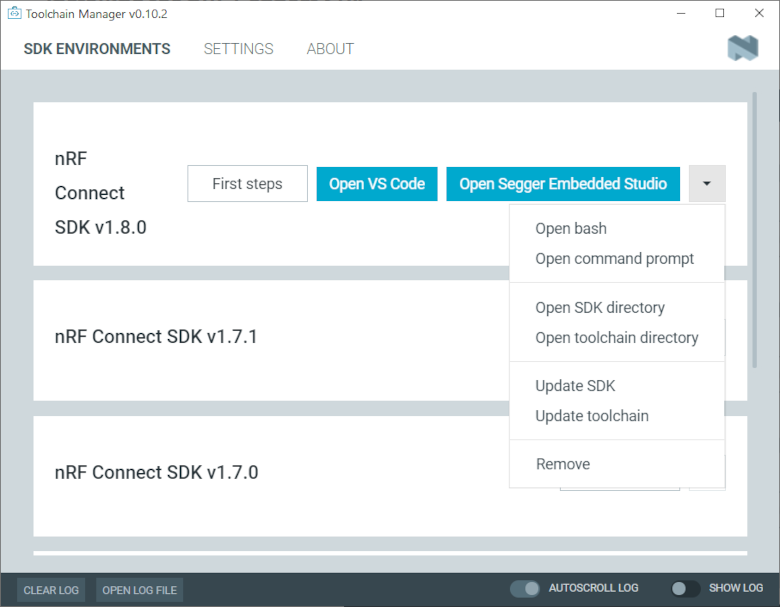
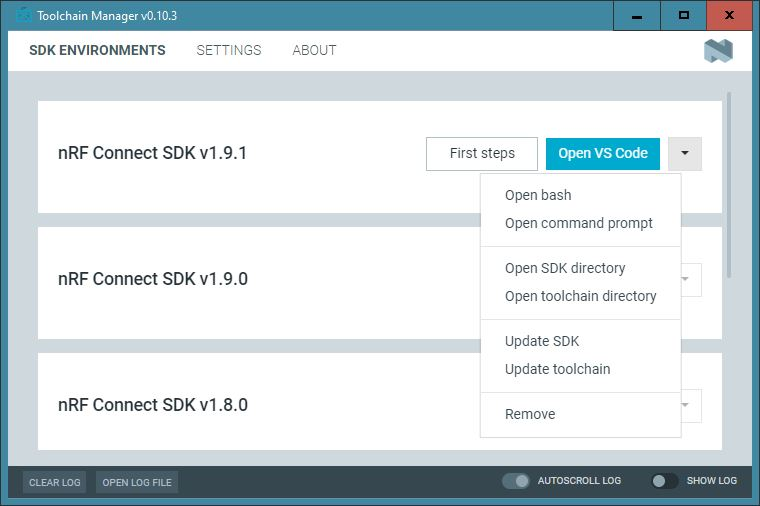
doc: removed ses references
Removed ses references from gs_assistant and gs_updating.
Updated a screenshot in gs_assistant.
Removed a SES reference in ug_nrf5340.rst.
Implemented changes from Jira NCSDK 15030.

diff --git a/doc/nrf/gs_updating.rst b/doc/nrf/gs_updating.rst
@@ -86,6 +86,7 @@ To switch to the latest state of development, enter the following commands::
    Run ``west update`` every time you change or modify the current working branch (for example, when you pull, rebase, or check out a different branch).
    This will bring the project repositories to the matching revision defined by the manifest file.
 
+
 .. _gs_updating_vsc:
 
 Updating |VSC|
@@ -148,53 +149,6 @@ To update west to the latest available version in the PyPi repository, run the f
 
          pip3 install -U west
 ..
-
-.. _gs_updating_ses:
-
-Updating SEGGER Embedded Studio Nordic Edition
-**********************************************
-
-Each new release of the |NCS| might require manually updating to a newer version of the |SES| (SES) Nordic Edition.
-Whenever you update to a newer release of the |NCS|, check the :ref:`gs_recommended_versions` page for the given release to see if you are using the minimum required version of the SES Nordic Edition.
-
-.. note::
-  Because of the custom |NCS| options available only in the SES Nordic Edition, notifications about newer versions of SES are disabled in the SES Nordic Edition.
-
-.. tabs::
-
-   .. group-tab:: Windows
-
-      To update to the latest version of the SES Nordic Edition, use one of the following options:
-
-      * Install the latest version of Toolchain Manager as described in :ref:`gs_assistant`.
-      * Install the SES Nordic Edition manually as described in :ref:`installing_ses`.
-
-      Then, :ref:`set up the build environment in SES <setting_up_SES>` again.
-
-   .. group-tab:: Linux
-
-      To update to the latest version of the SES Nordic Edition, install it manually as described in :ref:`installing_ses`.
-      Then, :ref:`set up the build environment in SES <setting_up_SES>` again.
-
-   .. group-tab:: macOS
-
-      To update to the latest version of the SES Nordic Edition, install it manually as described in :ref:`installing_ses`.
-      Then, :ref:`set up the build environment in SES <setting_up_SES>` again.
-..
-
-.. _gs_updating_ses_packages:
-
-Updating SES packages
-=====================
-
-Updating SES Nordic Edition will not update already installed packages.
-You might need to manually update the CPU support package when you cannot select a CPU as :guilabel:`Target Processor` when configuring a new project.
-
-To update the nRF CPU Support Package after a SES update:
-
-1. In SES, select :guilabel:`Tools` > :guilabel:`Package Manager...`.
-#. Search for "nRF CPU Support Package".
-#. Update the package to the latest version.
 
 .. _repo_move:
 

diff --git a/doc/nrf/gs_assistant.rst b/doc/nrf/gs_assistant.rst
@@ -21,7 +21,7 @@ Toolchain Manager
 *****************
 
 The Toolchain manager app is available for Windows and macOS.
-It installs the full toolchain that you need to work with the |NCS|, including the |VSC| extension, |SES|, and the |NCS| source code.
+It installs the full toolchain that you need to work with the |NCS|, including the |VSC| extension and the |NCS| source code.
 
 .. _tcm_setup:
 
@@ -52,11 +52,9 @@ Click :guilabel:`Settings` in the navigation bar to specify where you want to in
 Then, in :guilabel:`SDK Environments`, click the :guilabel:`Install` button next to the |NCS| version that you want to install.
 The |NCS| version of your choice is installed on your machine.
 
-There are several ways you can build an application:
+There are two ways you can build an application:
 
 * To build with |VSC|, click on the :guilabel:`Open VS Code` button.
-
-* To build with |SES|, click on the :guilabel:`Open Segger Embedded Studio` button.
 
 * To build on the command line, use the following steps:
 

diff --git a/doc/nrf/releases/release-notes-1.8.0.rst b/doc/nrf/releases/release-notes-1.8.0.rst
@@ -834,7 +834,7 @@ In addition to documentation related to the changes listed above, the following 
     This was listed earlier as a known issue.
   * Updated the :ref:`gs_programming_ses` section with a warning about a "no input files" error.
 
-* :ref:`gs_updating` - Added a section about :ref:`gs_updating_ses_packages`.
+* :ref:`gs_updating` - Added a section about updating SES packages.
 * :ref:`glossary` - Added new terms related to :ref:`ug_matter` and :ref:`ug_zigbee`.
 * :ref:`ug_nrf52` - Added a section describing Bluetooth mesh under the Supported protocols section.
 * :ref:`ug_nrf5340`:

diff --git a/doc/nrf/ug_nrf5340.rst b/doc/nrf/ug_nrf5340.rst
@@ -422,7 +422,6 @@ Follow these steps to build and program a multi-image build to the nRF5340 appli
    #. Configure the project settings.
 
       * :guilabel:`Target Processor`: Select ``nRF5340_xxAA_Network``.
-        If it is not on the list, see :ref:`gs_updating_ses_packages`.
 
       * :guilabel:`Load File`: Specify the file name of the merged HEX file for the network core that should be programmed.
          For example, specify :file:`$(ProjectDir)/hci_rpmsg/zephyr/merged_CPUNET.hex` for the :ref:`zephyr:bluetooth-hci-rpmsg-sample` sample.
